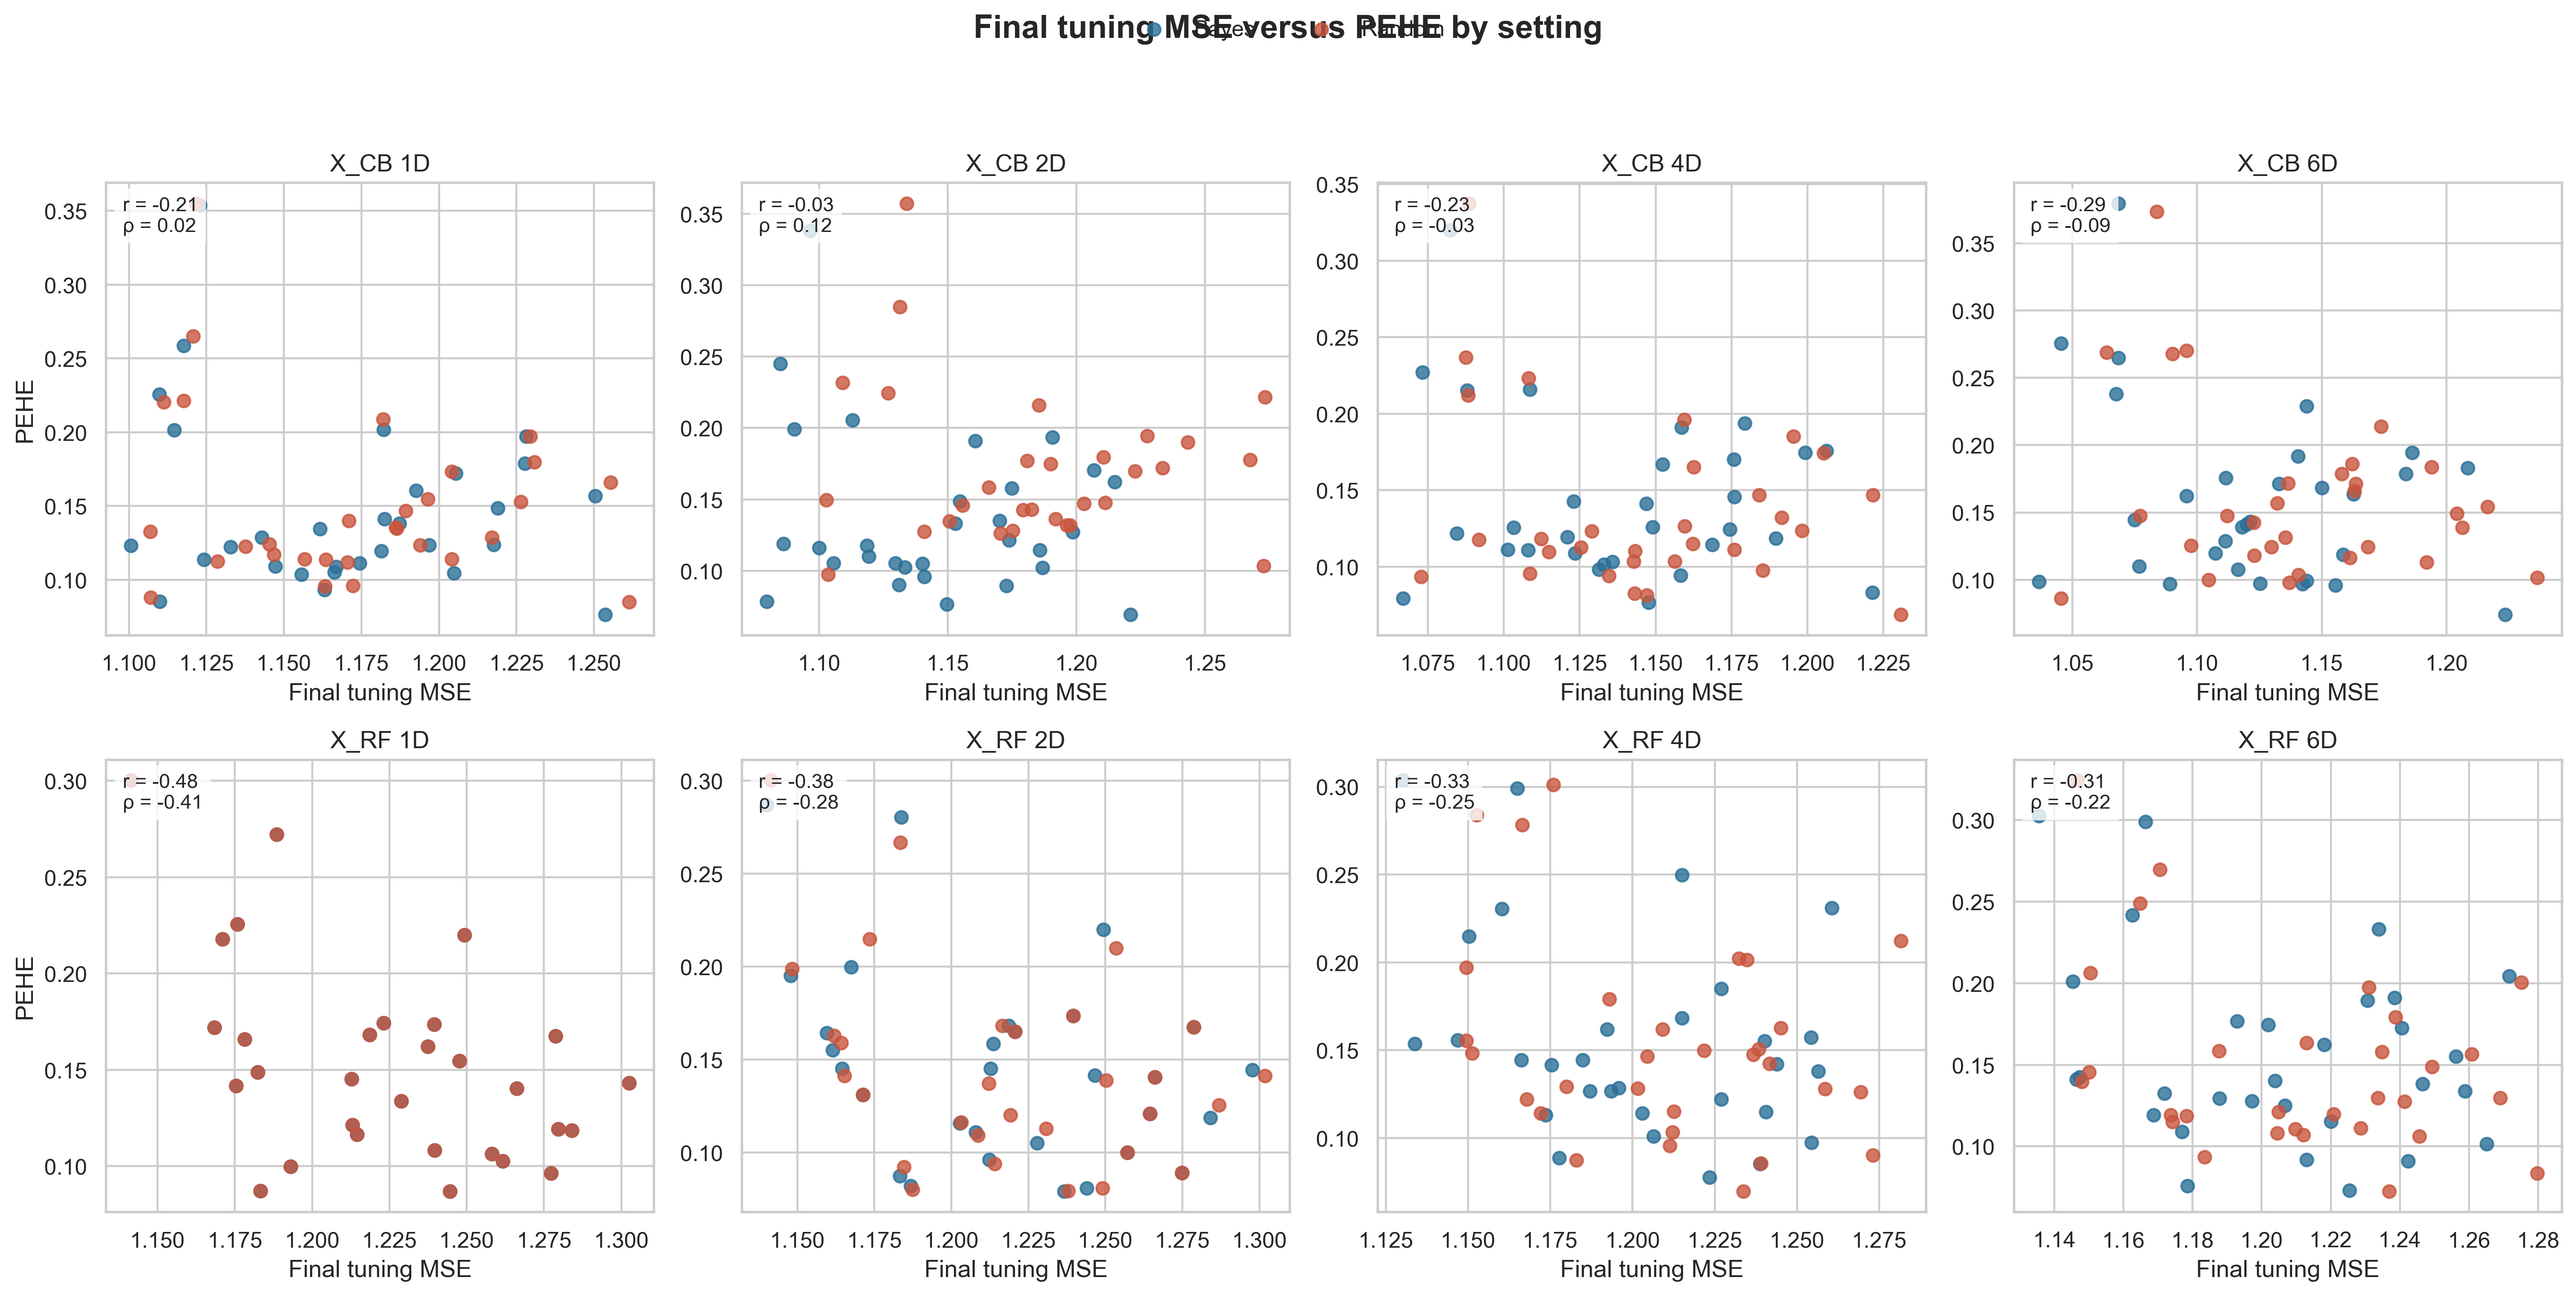
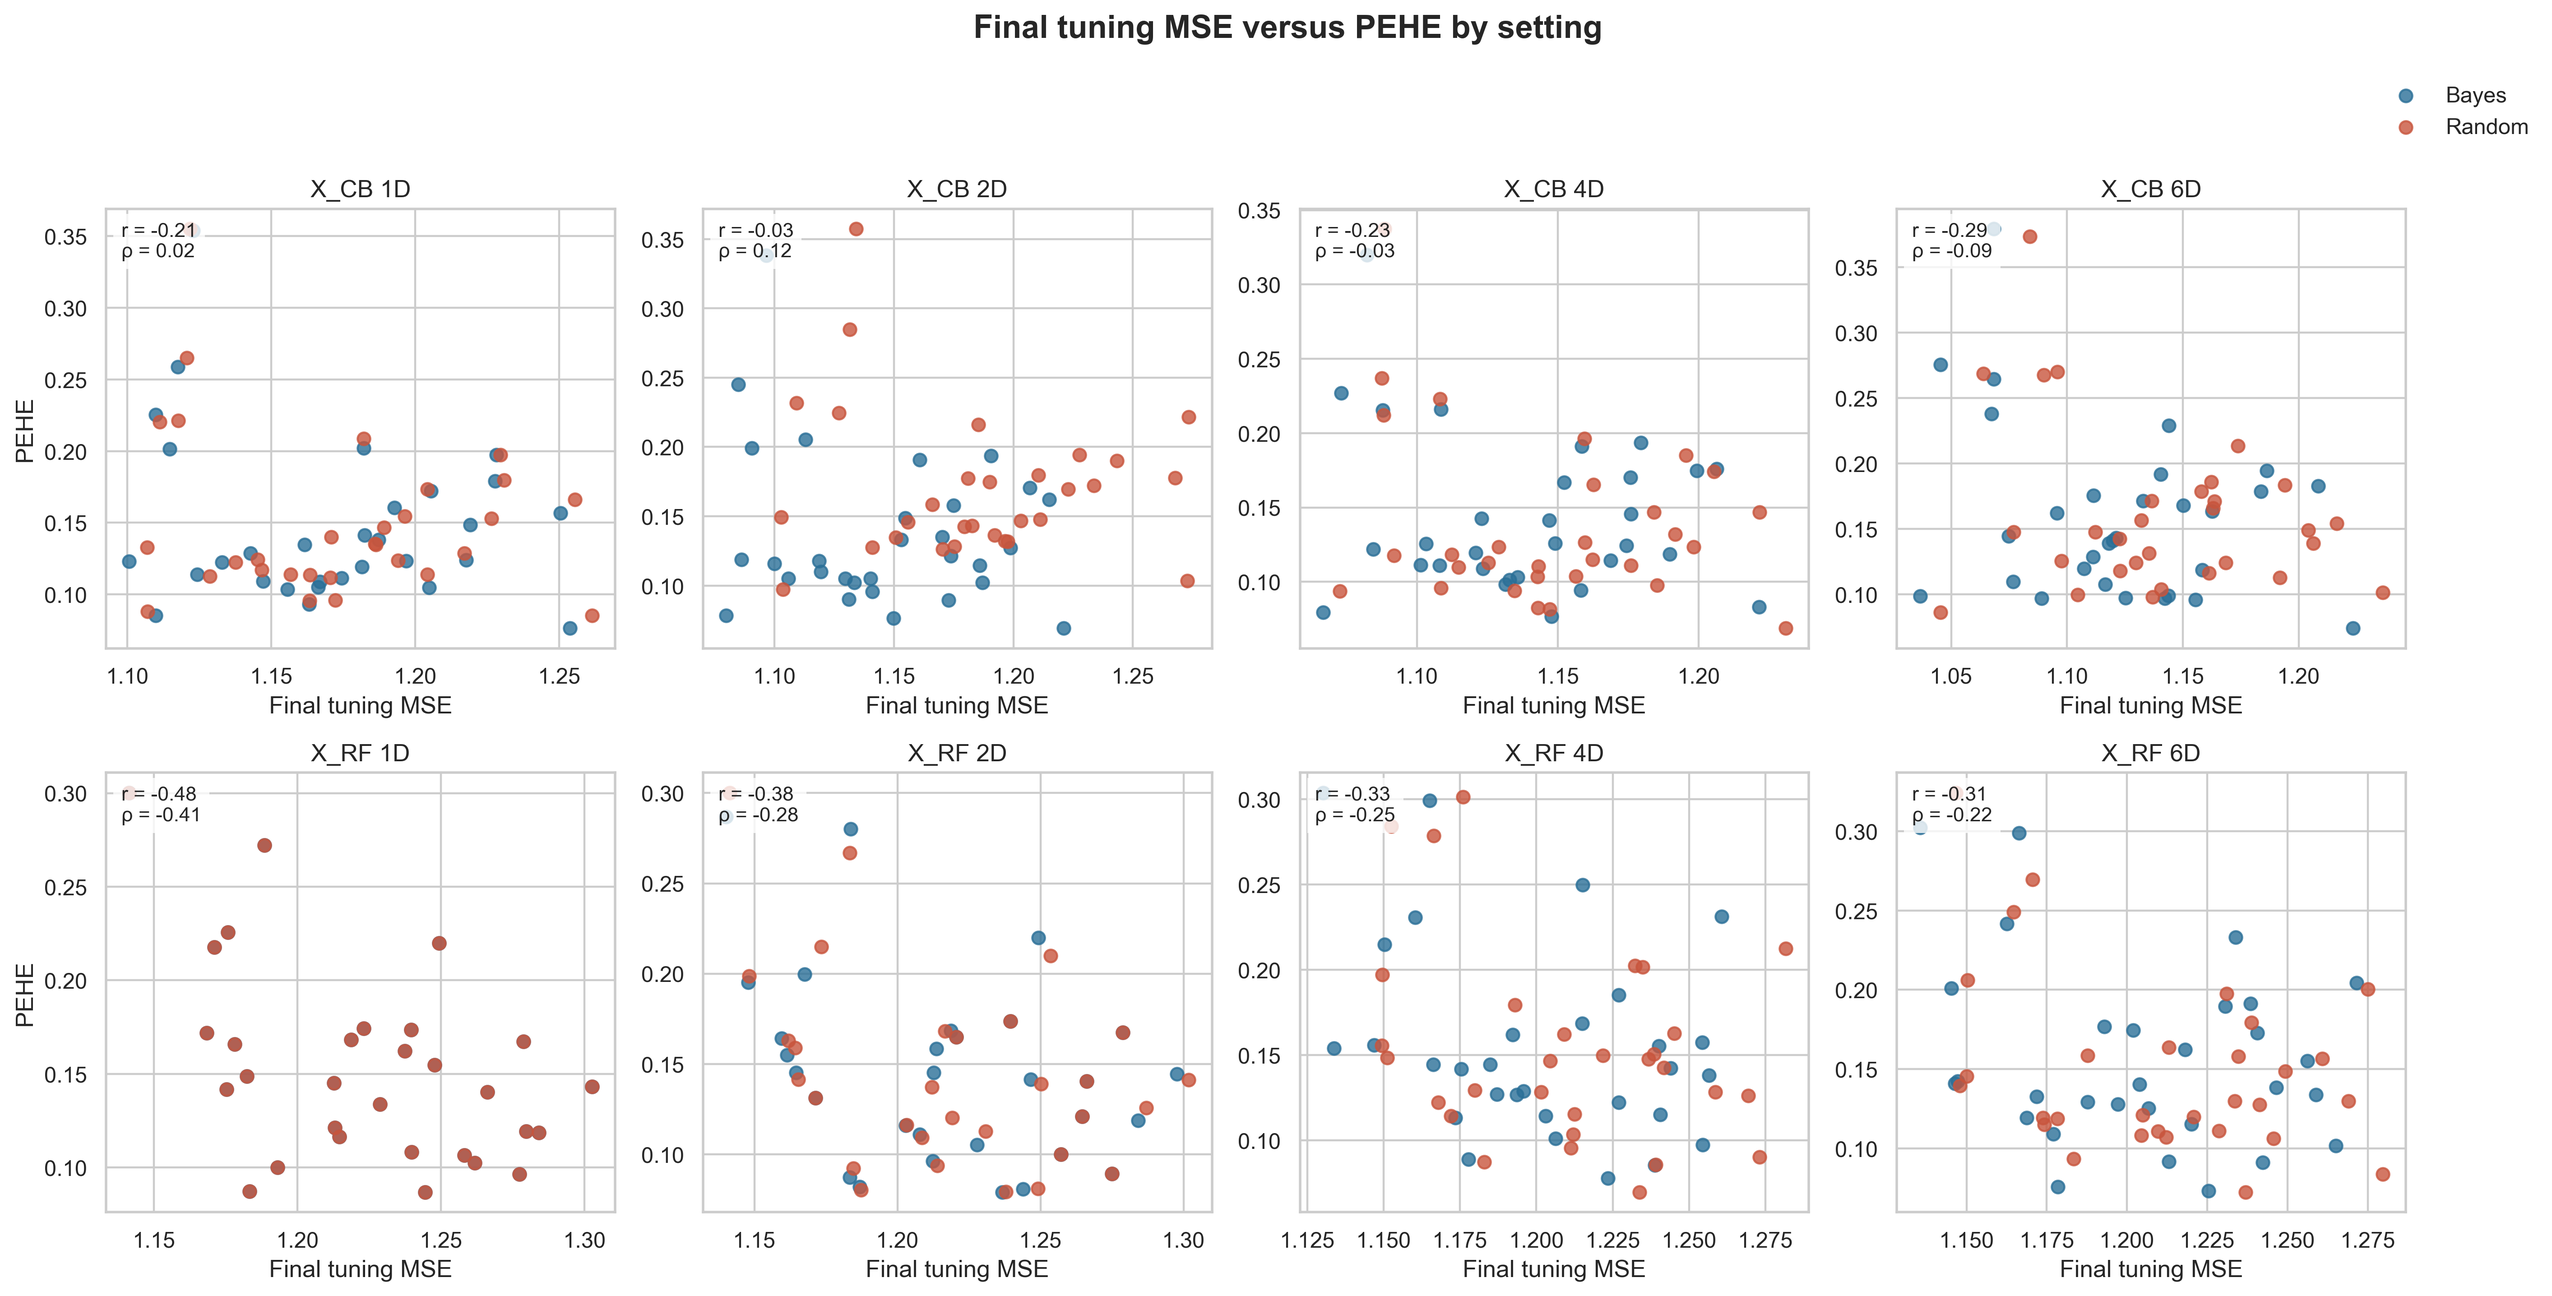
reformat mse vs pehe plot

diff --git a/analysis/pehe_alignment_analysis.py b/analysis/pehe_alignment_analysis.py
@@ -262,9 +262,16 @@ def plot_mse_vs_pehe(rep_df: pd.DataFrame, path: Path) -> None:
             )
 
     handles, labels = axes[0, 0].get_legend_handles_labels()
-    fig.legend(handles, labels, loc="upper center", ncol=2, frameon=False)
+    fig.legend(
+        handles,
+        labels,
+        loc="upper right",
+        bbox_to_anchor=(0.985, 0.955),
+        ncol=1,
+        frameon=False,
+    )
     fig.suptitle("Final tuning MSE versus PEHE by setting", fontsize=16, fontweight="bold", y=0.995)
-    fig.tight_layout(rect=[0, 0, 1, 0.95])
+    fig.tight_layout(rect=[0, 0, 0.94, 0.93])
     plt.savefig(path, dpi=320, bbox_inches="tight")
     plt.close()
 
